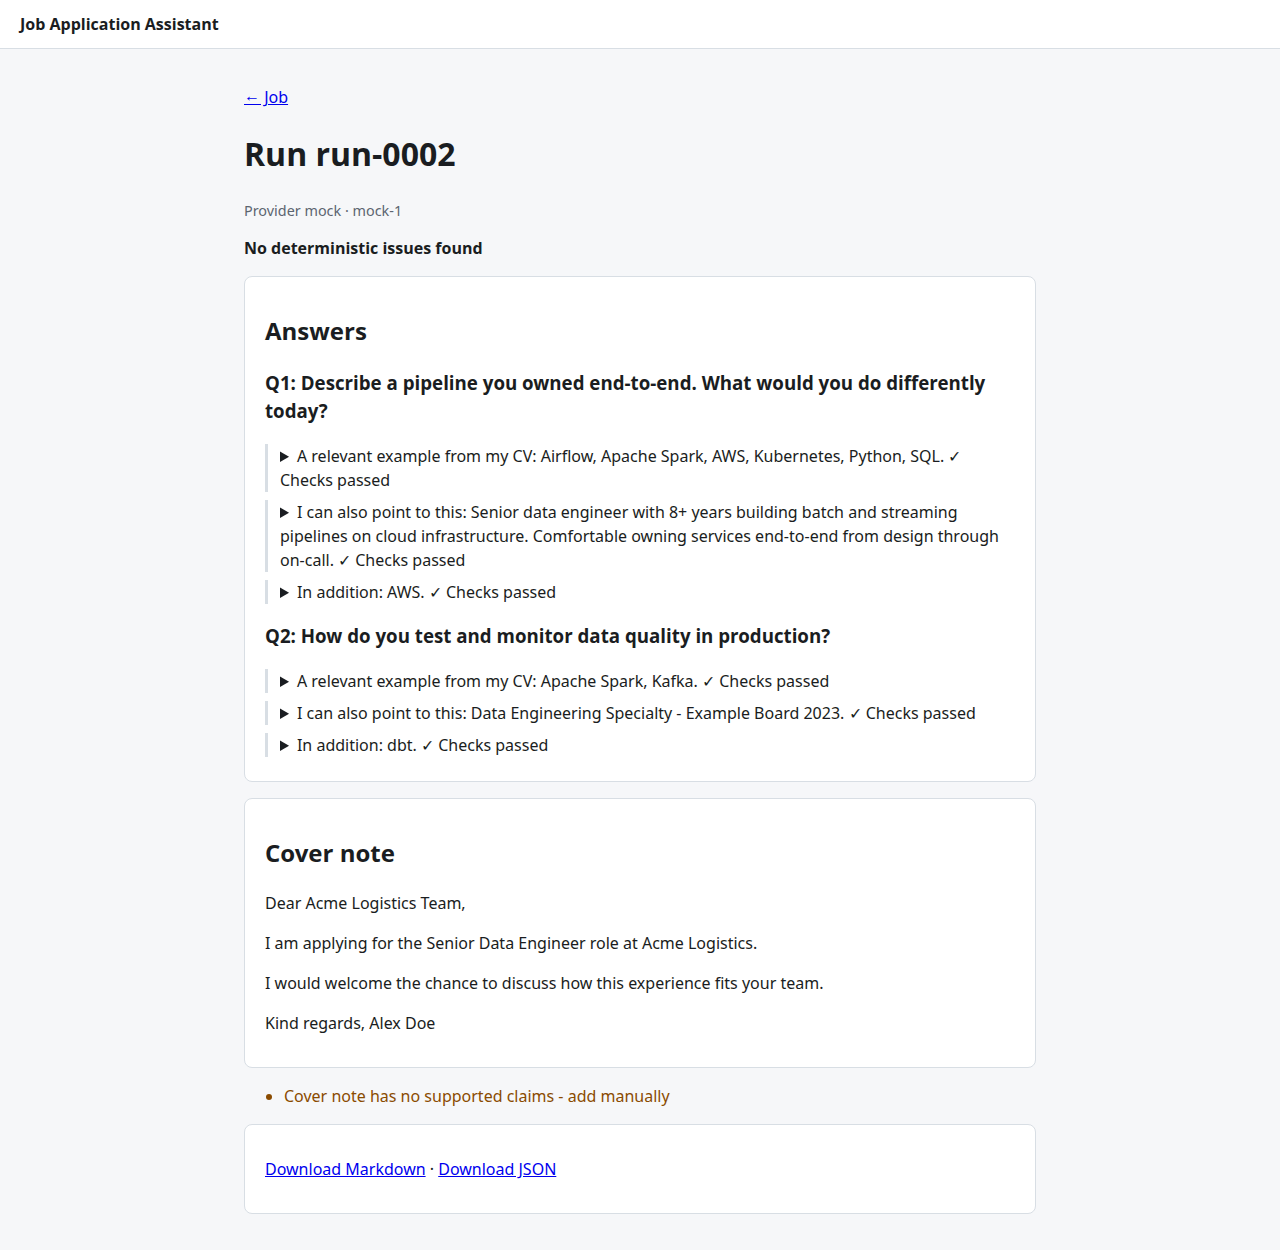
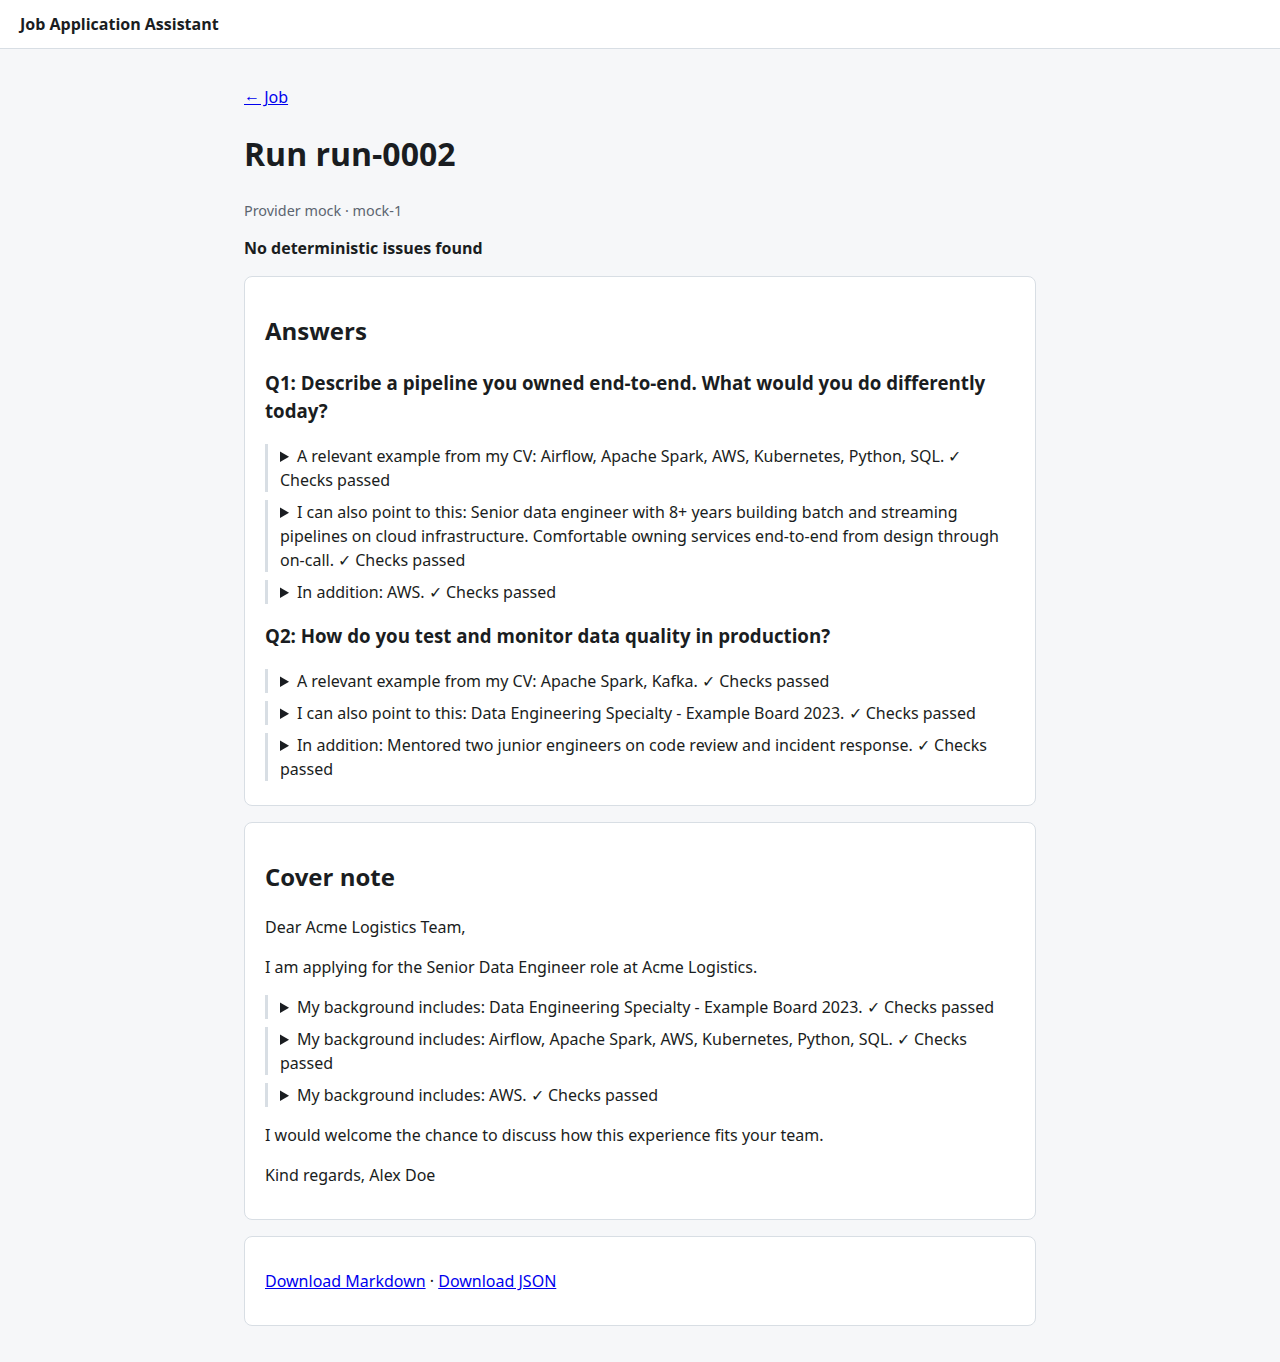
Regenerate run screenshots and align README with 10-claim mock demo (#3)
Refresh run-unsupported.png and run-pruned.png via JAA_UPDATE_SCREENSHOTS
e2e flow. Document badge text (10 claims, prune) in README and screenshots
README.

Changed region(s): [[0.1875, 0.0624, 0.7812, 0.9672], [0.0, 0.0, 0.1562, 0.0312]]

diff --git a/README.md b/README.md
@@ -10,6 +10,8 @@ Tailored job applications from *your* CV, where every claim is cited and checked
 
 ## Screenshots
 
+Mock provider, Alex Doe samples, Acme Logistics job. The run view shows **1 unsupported, 0 not verified (of 10 claims)** (Initech/15); after **Remove flagged claims**, the badge reads **No deterministic issues found** with the remaining cited cover claims.
+
 | Home | Job |
 | --- | --- |
 | ![Home](docs/screenshots/home.png) | ![Job](docs/screenshots/job.png) |
@@ -136,7 +138,7 @@ Step-by-step chapters: [`docs/tutorial/`](docs/tutorial/) (00-12).
 
 Alex Doe and all employers in `samples/` are **fictional**. CV and project files use `FICTIONAL SAMPLE DATA` markers; job posts use a portfolio-demo banner.
 
-With the default **mock** provider, generated cover notes include several CV-backed claims (with citations) plus one deliberate unsupported line (`At Initech…`) so you can see both passing citations and truth failures; pruning removes only the flagged claim.
+With the default **mock** provider, generated cover notes include several CV-backed claims (with citations) plus one deliberate unsupported Initech line so you can see both passing citations and truth failures; pruning removes only that flagged claim.
 
 ## License
 

diff --git a/docs/screenshots/README.md b/docs/screenshots/README.md
@@ -1,6 +1,6 @@
 # Screenshots
 
-Placeholder for tutorial and README screenshots (`home.png`, `job.png`, `run-unsupported.png`, `run-pruned.png`).
+README screenshots (`home.png`, `job.png`, `run-unsupported.png`, `run-pruned.png`) from the mock Acme demo flow (10 claims before prune).
 
 Regenerate with:
 
